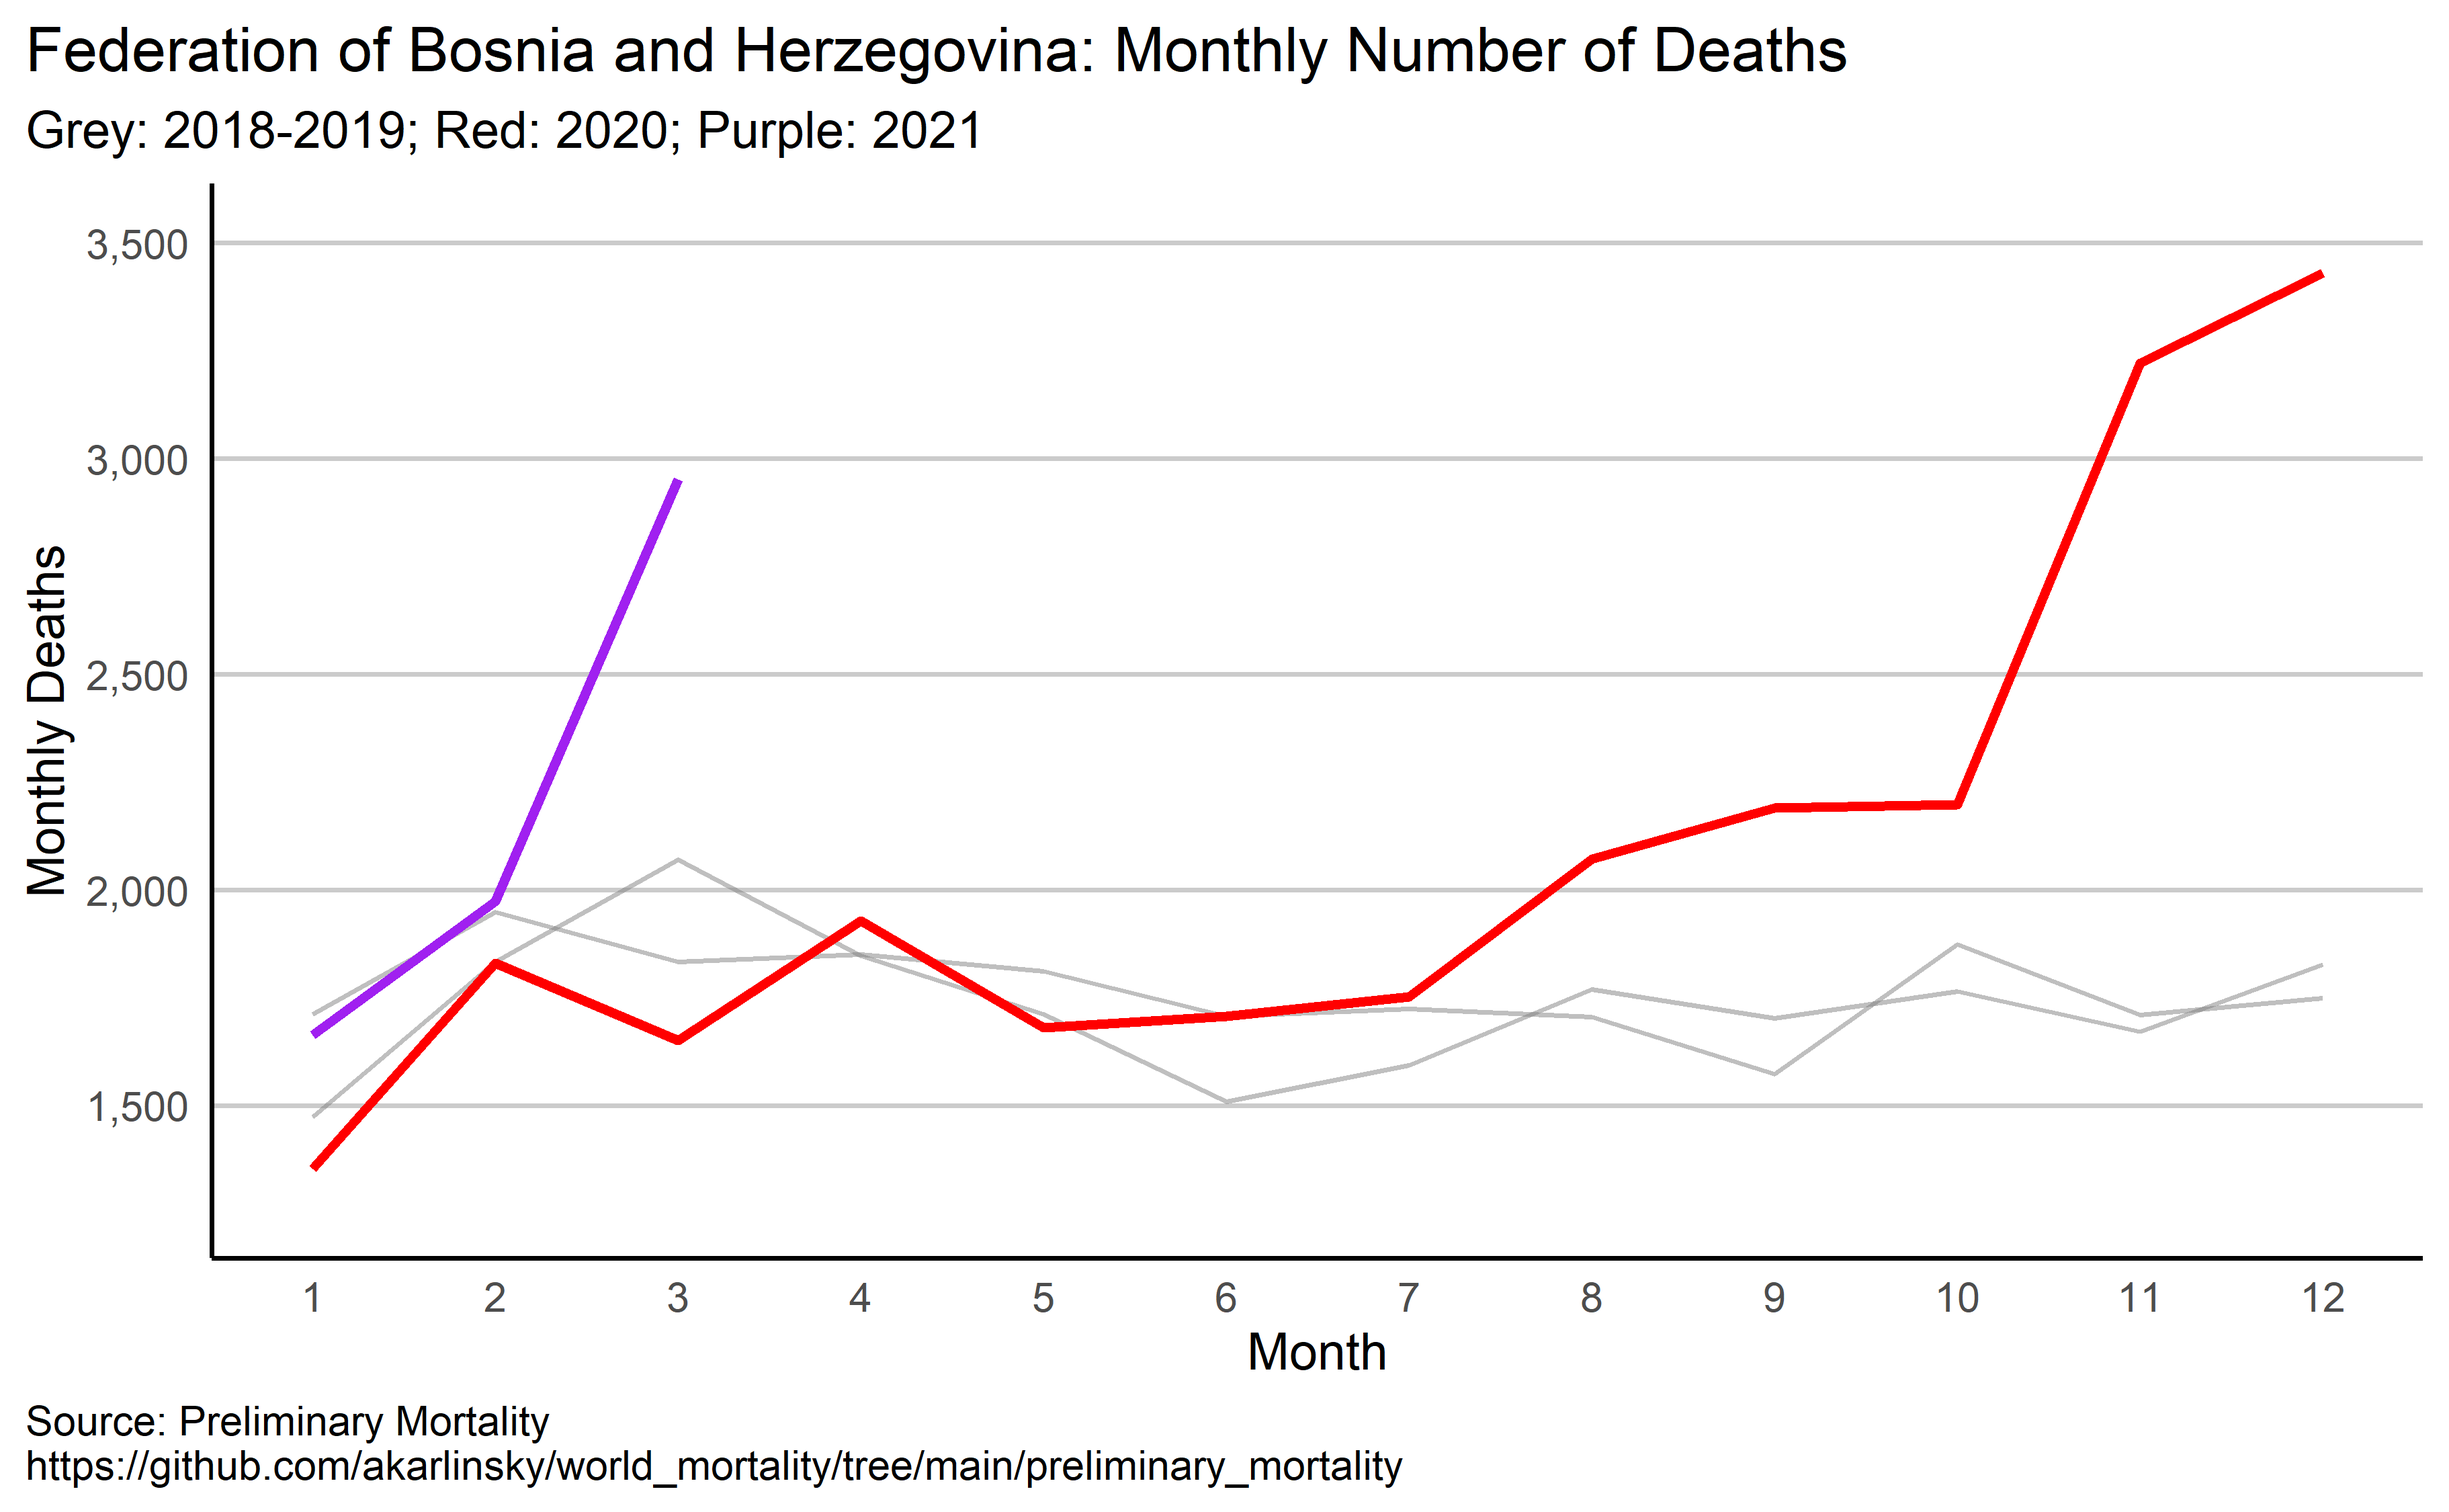
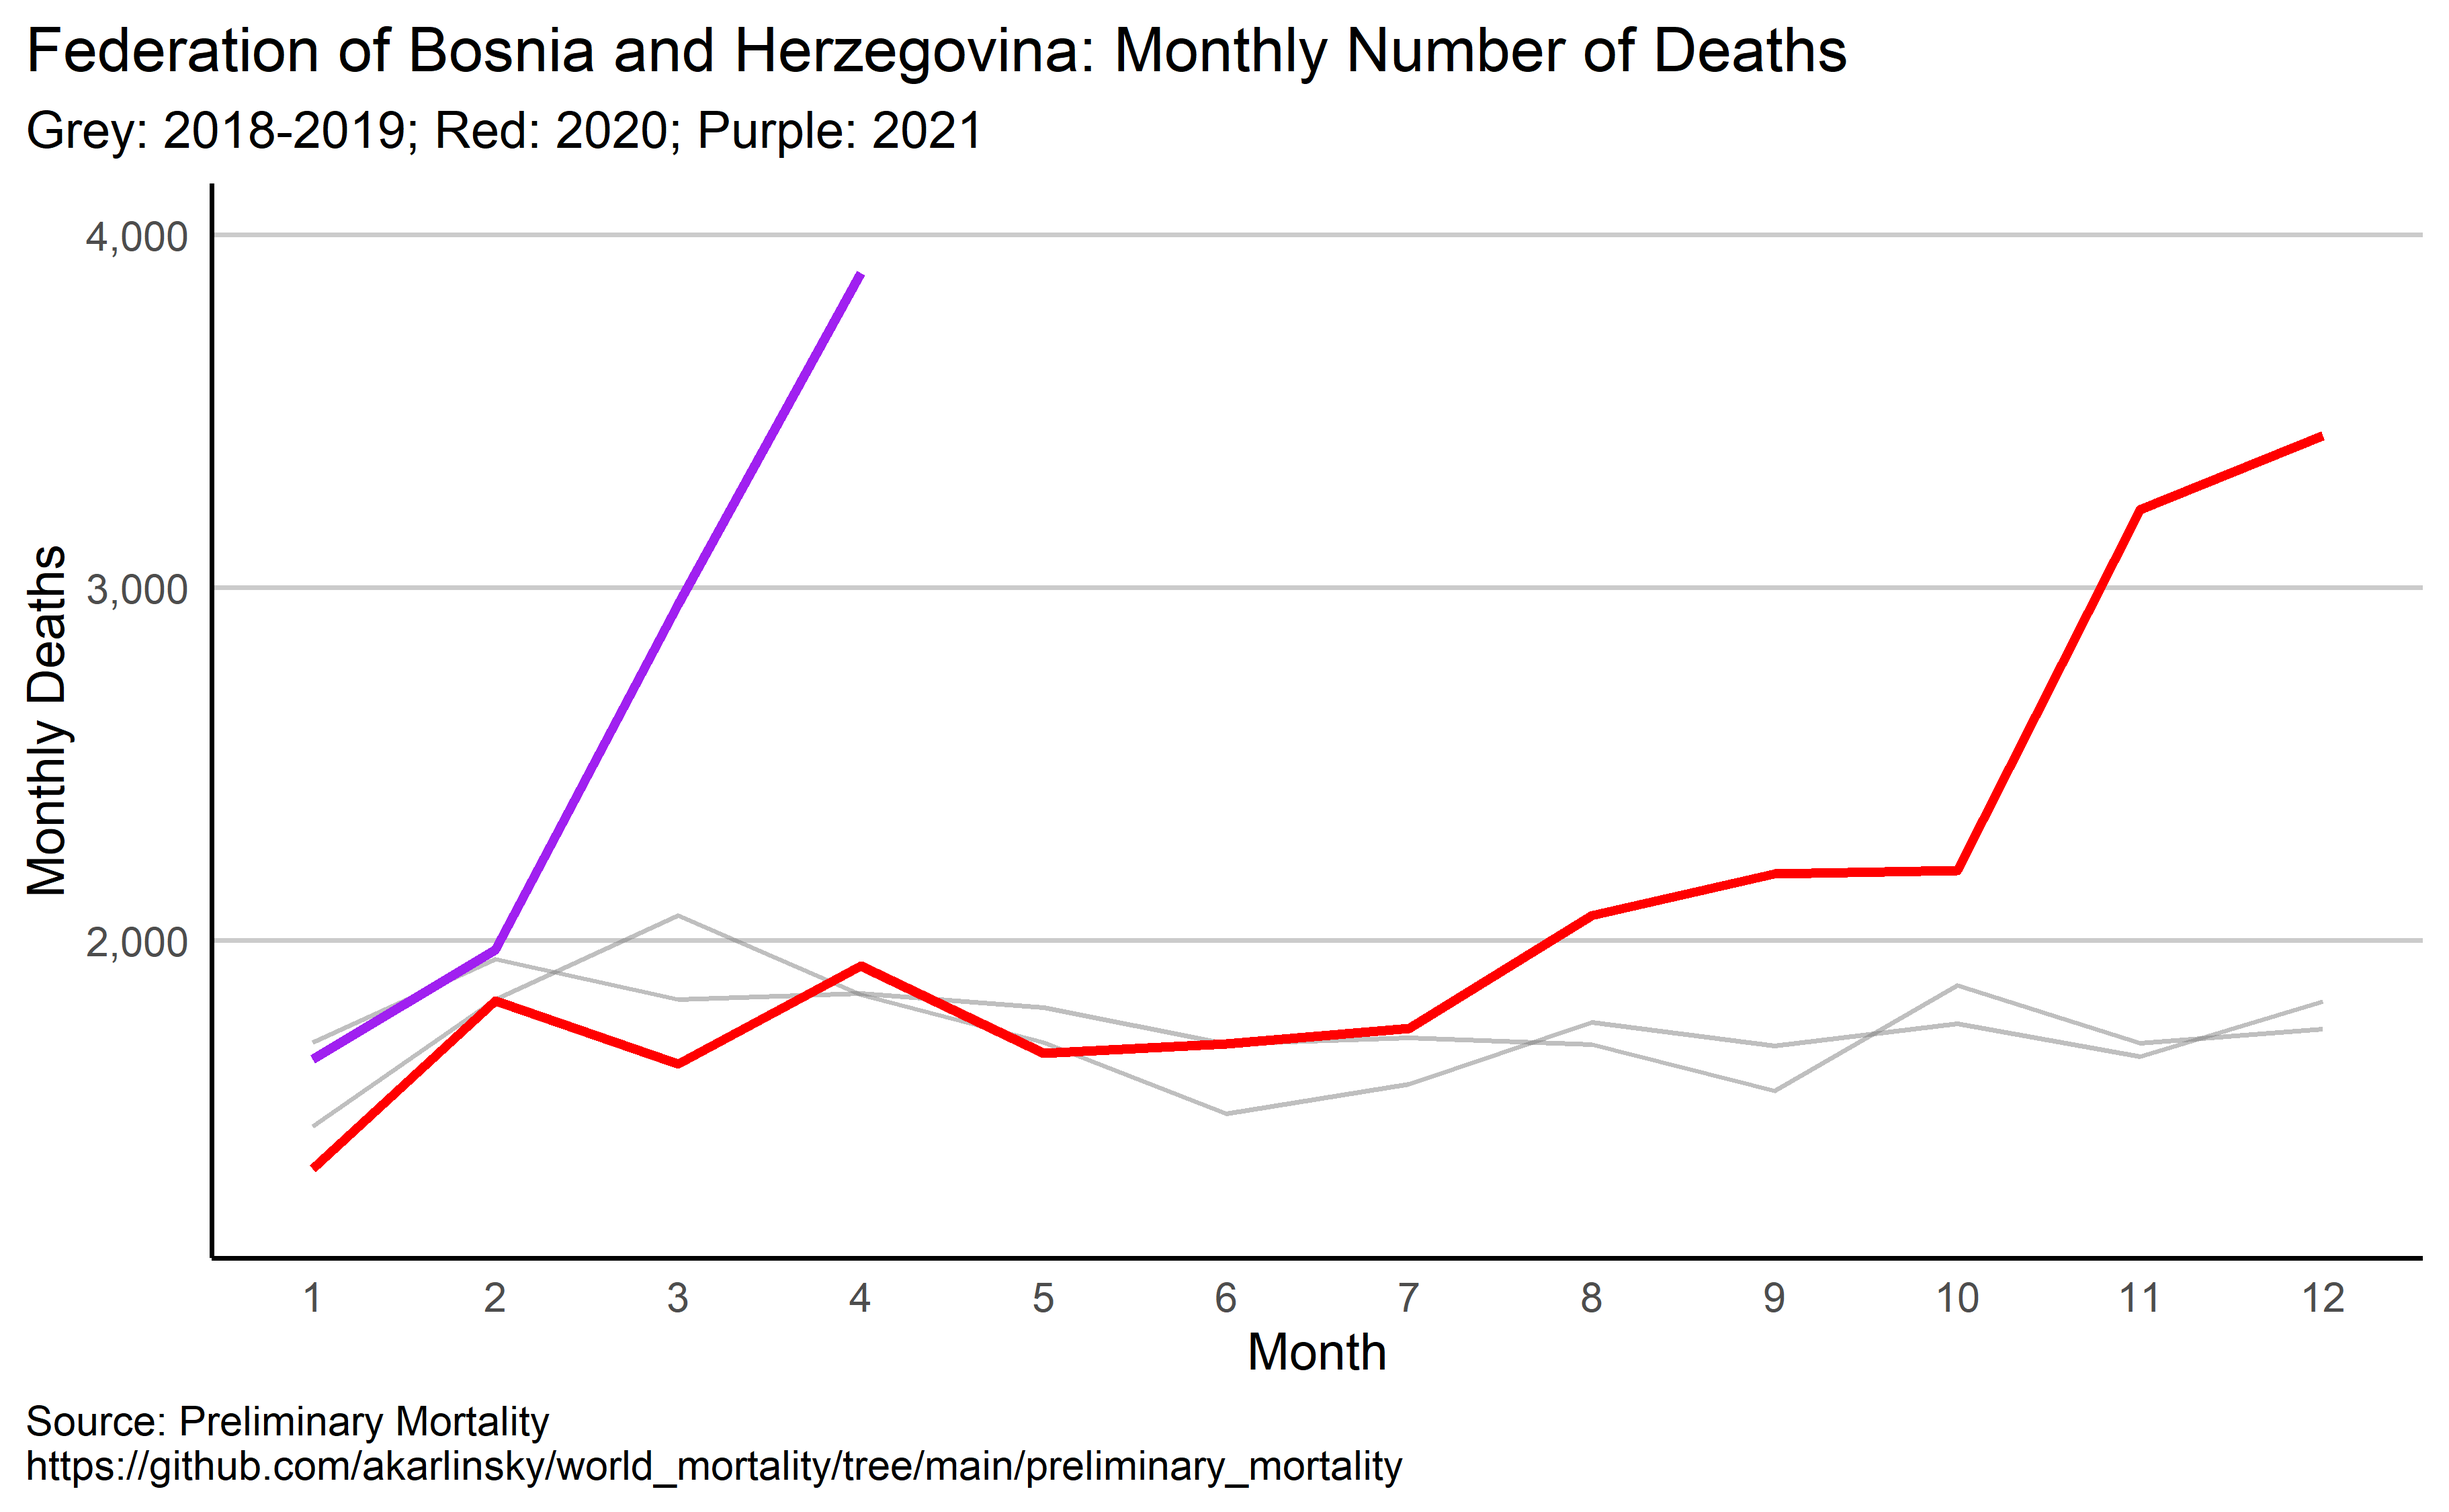
Preliminary Mortality Update
- New data: Turkey & Federation of Bosnia and Herzegovina.

diff --git a/preliminary_mortality/README.md b/preliminary_mortality/README.md
@@ -35,10 +35,7 @@ Monthly counts for Albania are published when available on [World Mortality](htt
 
 
 ### Tamil Nadu State, India
-2018-2021: https://scroll.in/article/997427/andhra-pradesh-saw-400-increase-in-deaths-in-may-tamil-nadu-saw-more-modest-excess-mortality
-
-Information from [Rukmini S](https://twitter.com/Rukmini).
-
+Removed from Preliminary Mortality, now available on [Local Mortality](https://github.com/akarlinsky/world_mortality/tree/main/local_mortality) by month. 
 
 ### Republika Srpska (Quarterly)
 One of Bosnia & Herzegovina two autonomous entities.
